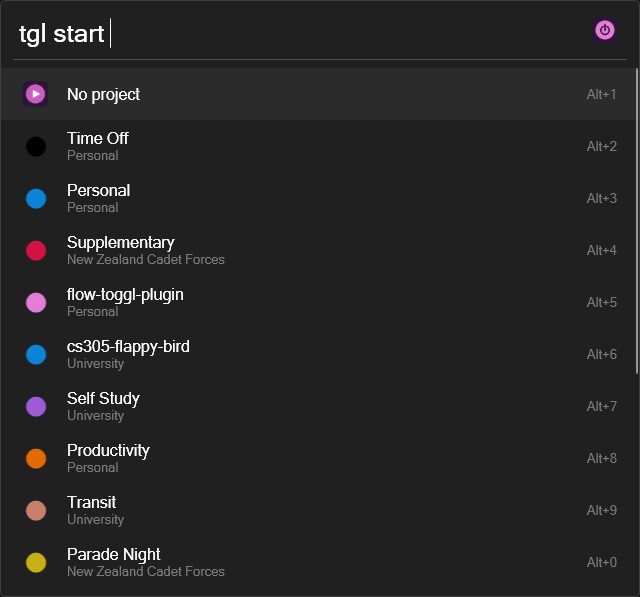
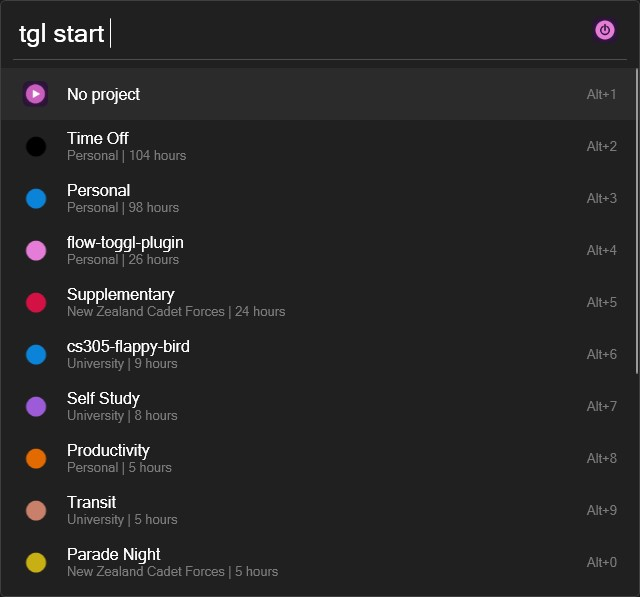
feat(ux): :children_crossing: include project hours in selection list

diff --git a/src/TogglTrack.cs b/src/TogglTrack.cs
@@ -236,7 +236,7 @@ namespace Flow.Launcher.Plugin.TogglTrack
 						filteredProjects.ConvertAll(project => new Result
 						{
 							Title = project.name,
-							SubTitle = (project?.client_id is not null) ? me?.clients?.Find(client => client.id == project.client_id)?.name : null,
+							SubTitle = $"{((project?.client_id is not null) ? me?.clients?.Find(client => client.id == project.client_id)?.name : null)} | {project?.actual_hours ?? 0} hours",
 							IcoPath = (project?.color is not null)
 								? new ColourIcon(this._context, project.color).GetColourIcon()
 								: "start.png",
